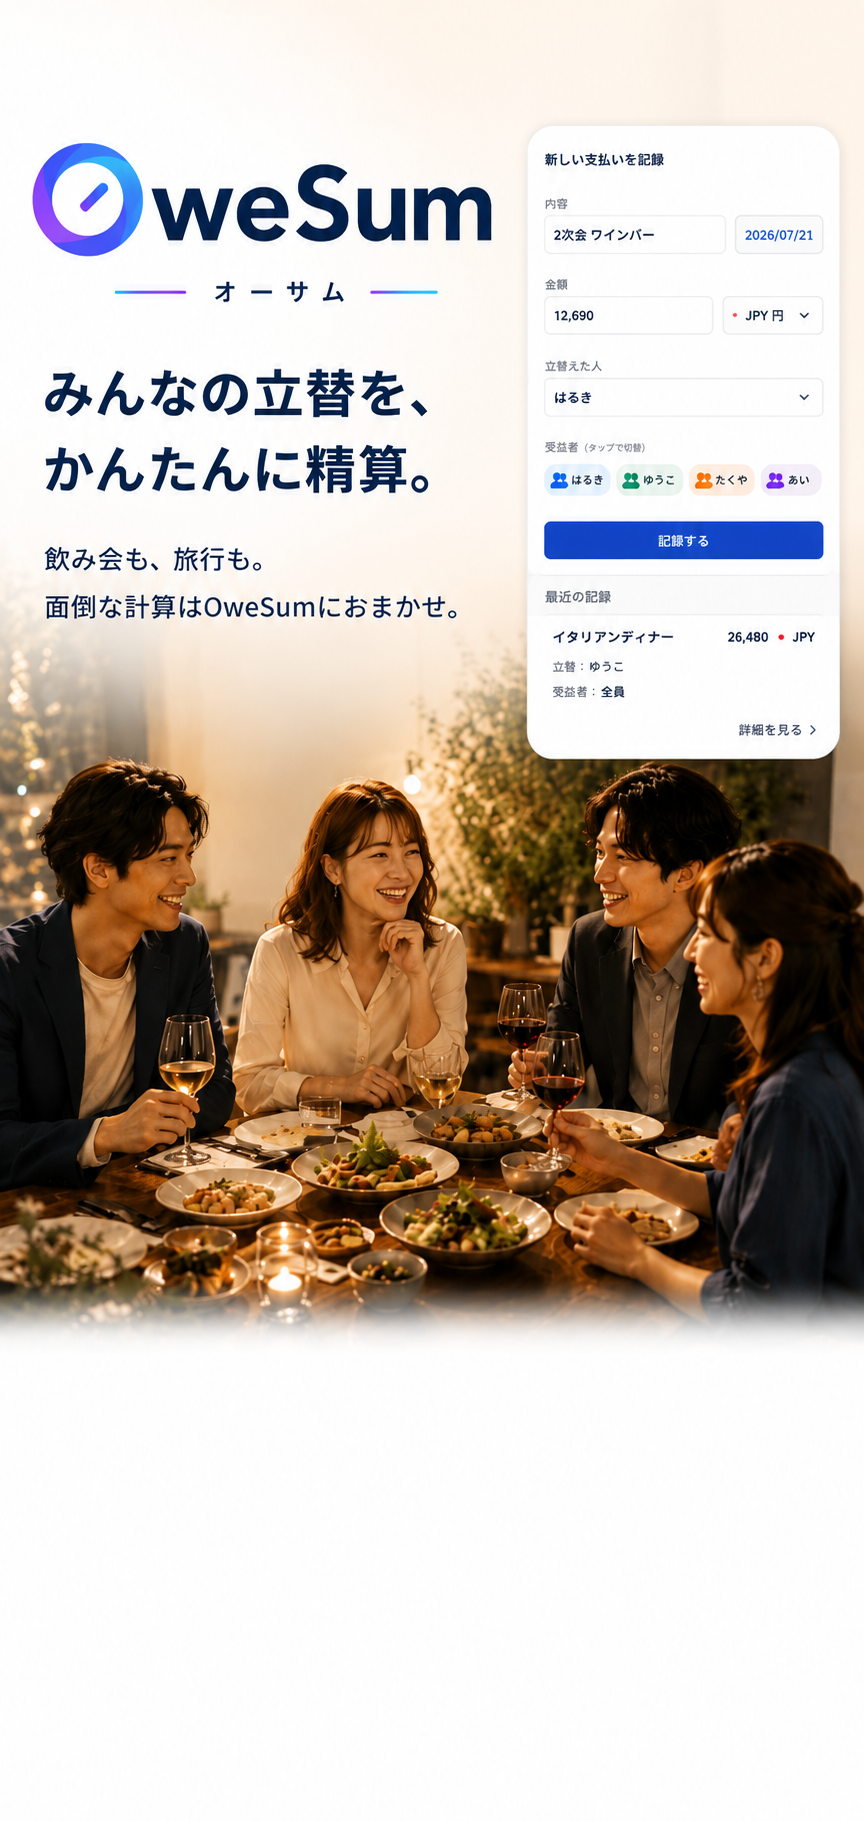
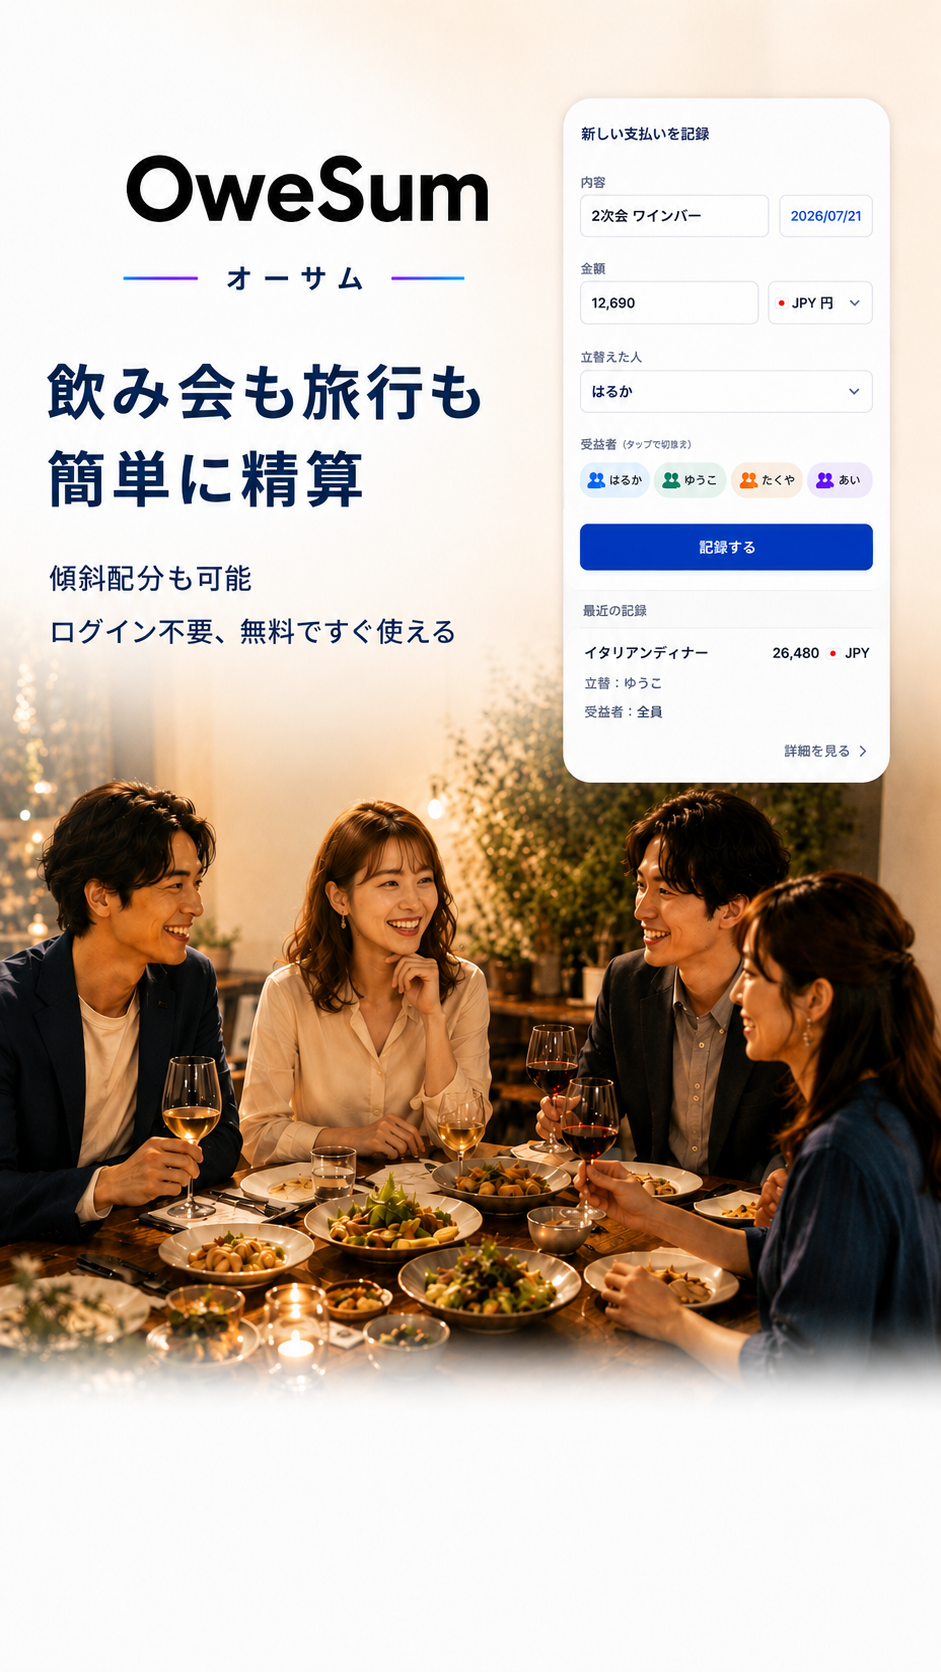
OweSumスマホトップを新画像に合わせて再調整

diff --git a/index.html b/index.html
@@ -136,11 +136,11 @@ input:focus,select:focus{outline:2px solid #2563eb;border-color:#2563eb}
   @supports (height:100svh){#p-group .wrap{min-height:calc(100svh - 28px)}}
   /* ヒーローの3入口と重複する下部の作成フォーム・復元カードはスマホでは非表示（HTMLは残す） */
   .sp-hide{display:none}
-  /* ヒーロー：画像（ロゴ・見出し・モックアップ・人物を内包）を1画面(100svh)に収めてcover表示し、
-     操作ボタンは画像下部の白フェード上に重ねる（ガラスカード・太枠・強い影は使わない） */
-  .hero{position:relative;height:100svh;overflow:hidden;display:block}
-  .hero-media{position:absolute;inset:0}
-  .hero-img{position:absolute;inset:0;width:100%;height:100%;object-fit:cover;object-position:center top;display:block}
+  /* ヒーロー：画像（ロゴ・見出し・モックアップ・人物を内包）は横幅いっぱい・高さautoで縦横比を保ったまま丸ごと表示
+     （coverによる左右クロップを避けるため、trimはしない）。操作ボタンは画像下部の白フェード上に絶対配置で重ねる */
+  .hero{position:relative;overflow:hidden;height:auto;min-height:320px;display:block;max-height:100svh}
+  .hero-media{position:static;display:block}
+  .hero-img{position:static;width:100%;height:auto;object-fit:contain;display:block}
   .hero::before{content:'';position:absolute;left:0;right:0;bottom:0;height:40%;pointer-events:none;z-index:1;background:linear-gradient(to bottom,rgba(253,246,236,0) 0%,rgba(253,246,236,.92) 60%,#fdf6ec 88%)}
   .hero-inner{position:absolute;left:16px;right:16px;bottom:calc(14px + env(safe-area-inset-bottom));z-index:2;margin:0;padding:0;width:auto;max-width:none;background:none;backdrop-filter:none;-webkit-backdrop-filter:none;border:none;border-radius:0;box-shadow:none}
   .hero-brand,.hero-title{display:none}
@@ -216,7 +216,7 @@ input:focus,select:focus{outline:2px solid #2563eb;border-color:#2563eb}
     <div class="hero-media">
       <picture>
         <source media="(min-width: 768px)" srcset="owesum-hero-desktop.webp?v=2">
-        <img src="owesum-hero-mobile.webp?v=3" alt="OweSum（オーサム）｜みんなの立替を、かんたん精算。" class="hero-img" onerror="this.style.display='none';this.closest('.hero').classList.add('img-failed')">
+        <img src="owesum-hero-mobile.webp?v=4" alt="OweSum（オーサム）｜飲み会も旅行も簡単に精算" class="hero-img" onerror="this.style.display='none';this.closest('.hero').classList.add('img-failed')">
       </picture>
     </div>
   </section>
